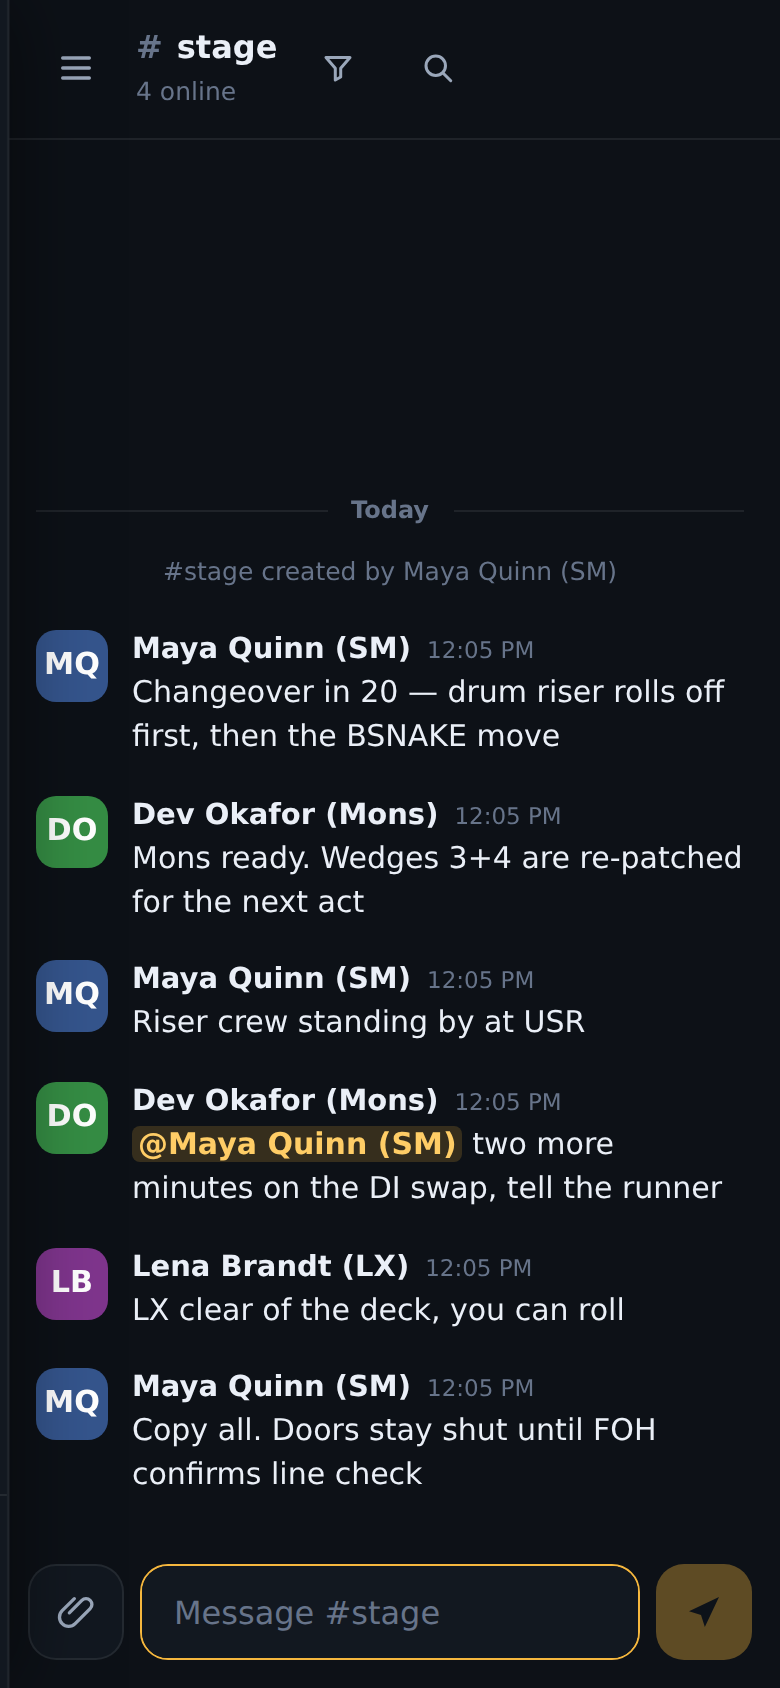
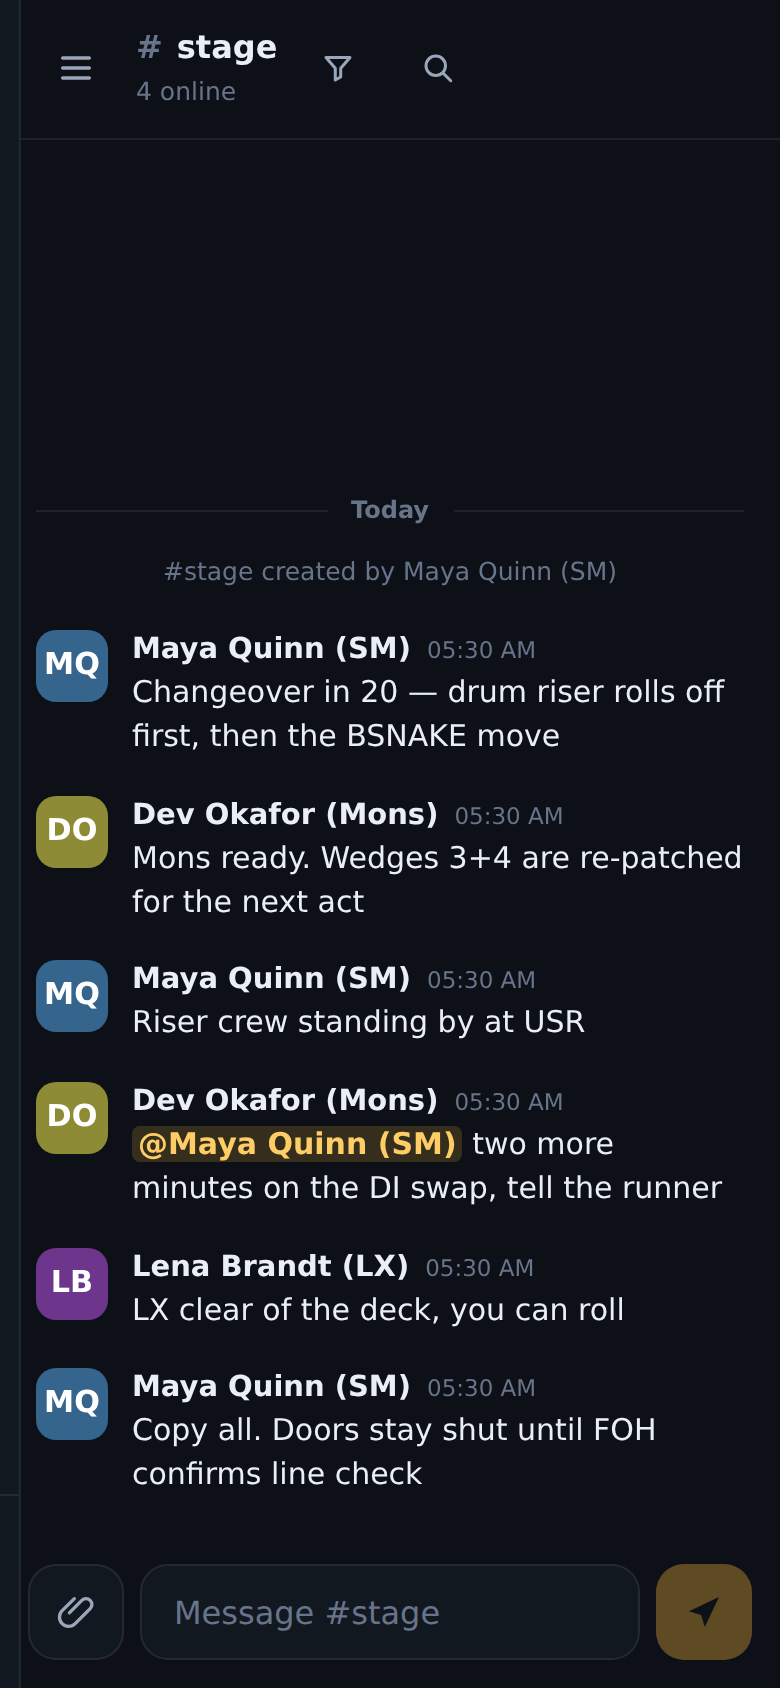
Docs: photograph the phone views again, buttons and all
The docs photograph the patch grid and the lighting plan on a phone, and
both changed on this branch: every channel now shows its + and −, and a
plot has undo and redo beside its tabs. The chat shot still showed the
shadow the closed drawer used to cast on the left edge.

The grid's scene had also stopped working. It opened the sheet on a phone
that had just joined, and a phone gets a sheet through the box from a
device that has it open. Since main started letting go of a document
nobody is looking at, nobody had it open by then, so the picture would
have been an empty "Untitled Sheet", and a moment later "Sheet not found".
Maya opens it first now, the way Lena already has the plot open, and the
scene waits for the sheet's title to arrive rather than for the empty
field.

Only the phone scenes are refreshed. The run skipped the LED walls scene,
which fails on main because the box no longer accepts the loopback address
the processor simulator listens on (bd2e1ba).

Claude-Session: https://claude.ai/code/session_01RymobnTyuGm21BmzhiVut5

diff --git a/e2e/screenshots/shots.spec.ts b/e2e/screenshots/shots.spec.ts
@@ -374,11 +374,16 @@ test('shots: extras — file detail, share, probe, phone modules', async ({ brow
   await maya.getByRole('heading', { name: 'Deep probe' }).scrollIntoViewIfNeeded()
   await shoot(maya, 'network-probe')
 
-  // Phone-sized module views: the grid and the plan.
+  // Phone-sized module views: the grid and the plan. The phone has never had
+  // either document and gets it through the box from a device that has it
+  // open, so Maya opens the sheet first, as Lena already has the plot open.
+  await maya.getByRole('button', { name: /Open sheet Riverside Weekender/ }).click()
+  await expect(maya.getByLabel('Sheet title')).toHaveValue(/^Riverside Weekender/)
   const phone = await phoneDevice(browser, CREW.prod)
   await phone.getByRole('button', { name: 'Open channels' }).first().click()
   await phone.getByRole('button', { name: /Open sheet Riverside Weekender/ }).click()
-  await expect(phone.getByLabel('Sheet title')).toBeVisible()
+  // It opens empty and fills in when it syncs.
+  await expect(phone.getByLabel('Sheet title')).toHaveValue(/^Riverside Weekender/)
   await shoot(phone, 'patch-grid-phone')
 
   await phone.getByRole('button', { name: 'Open channels' }).first().click()
